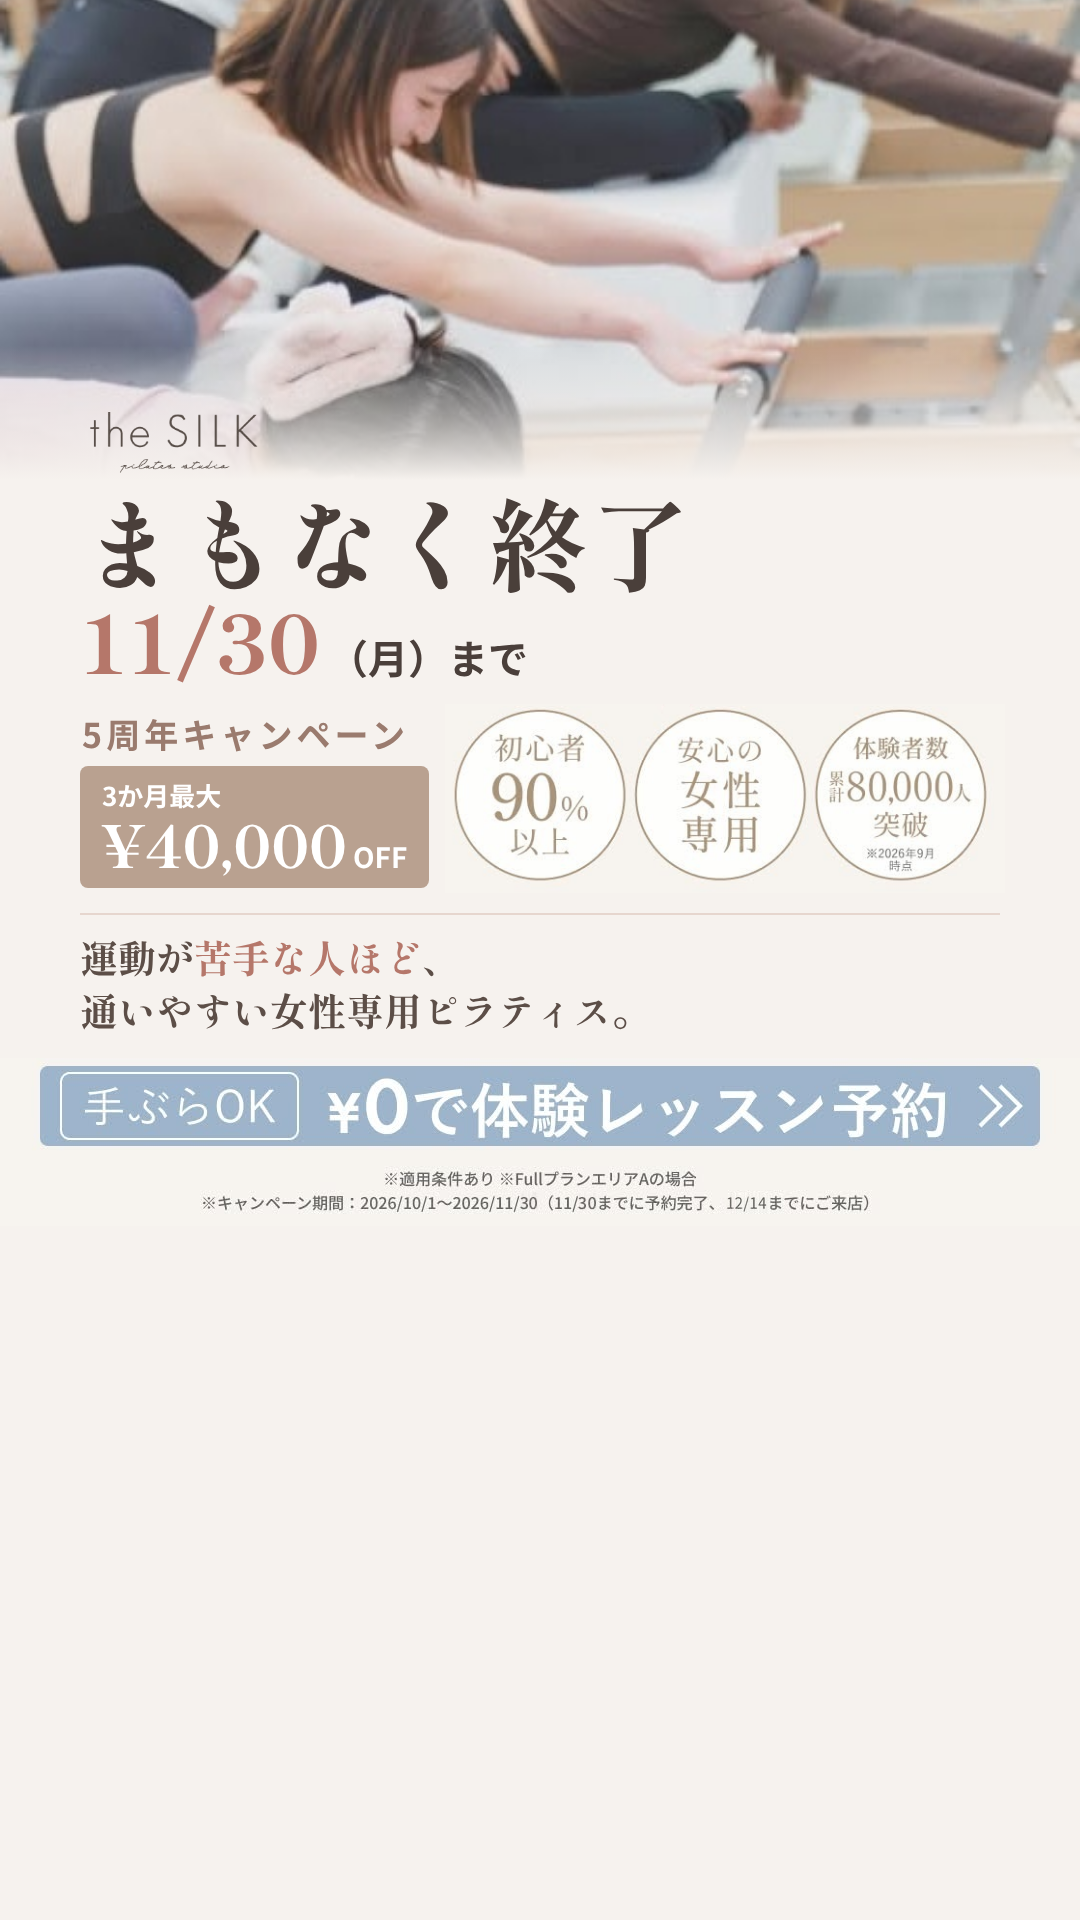
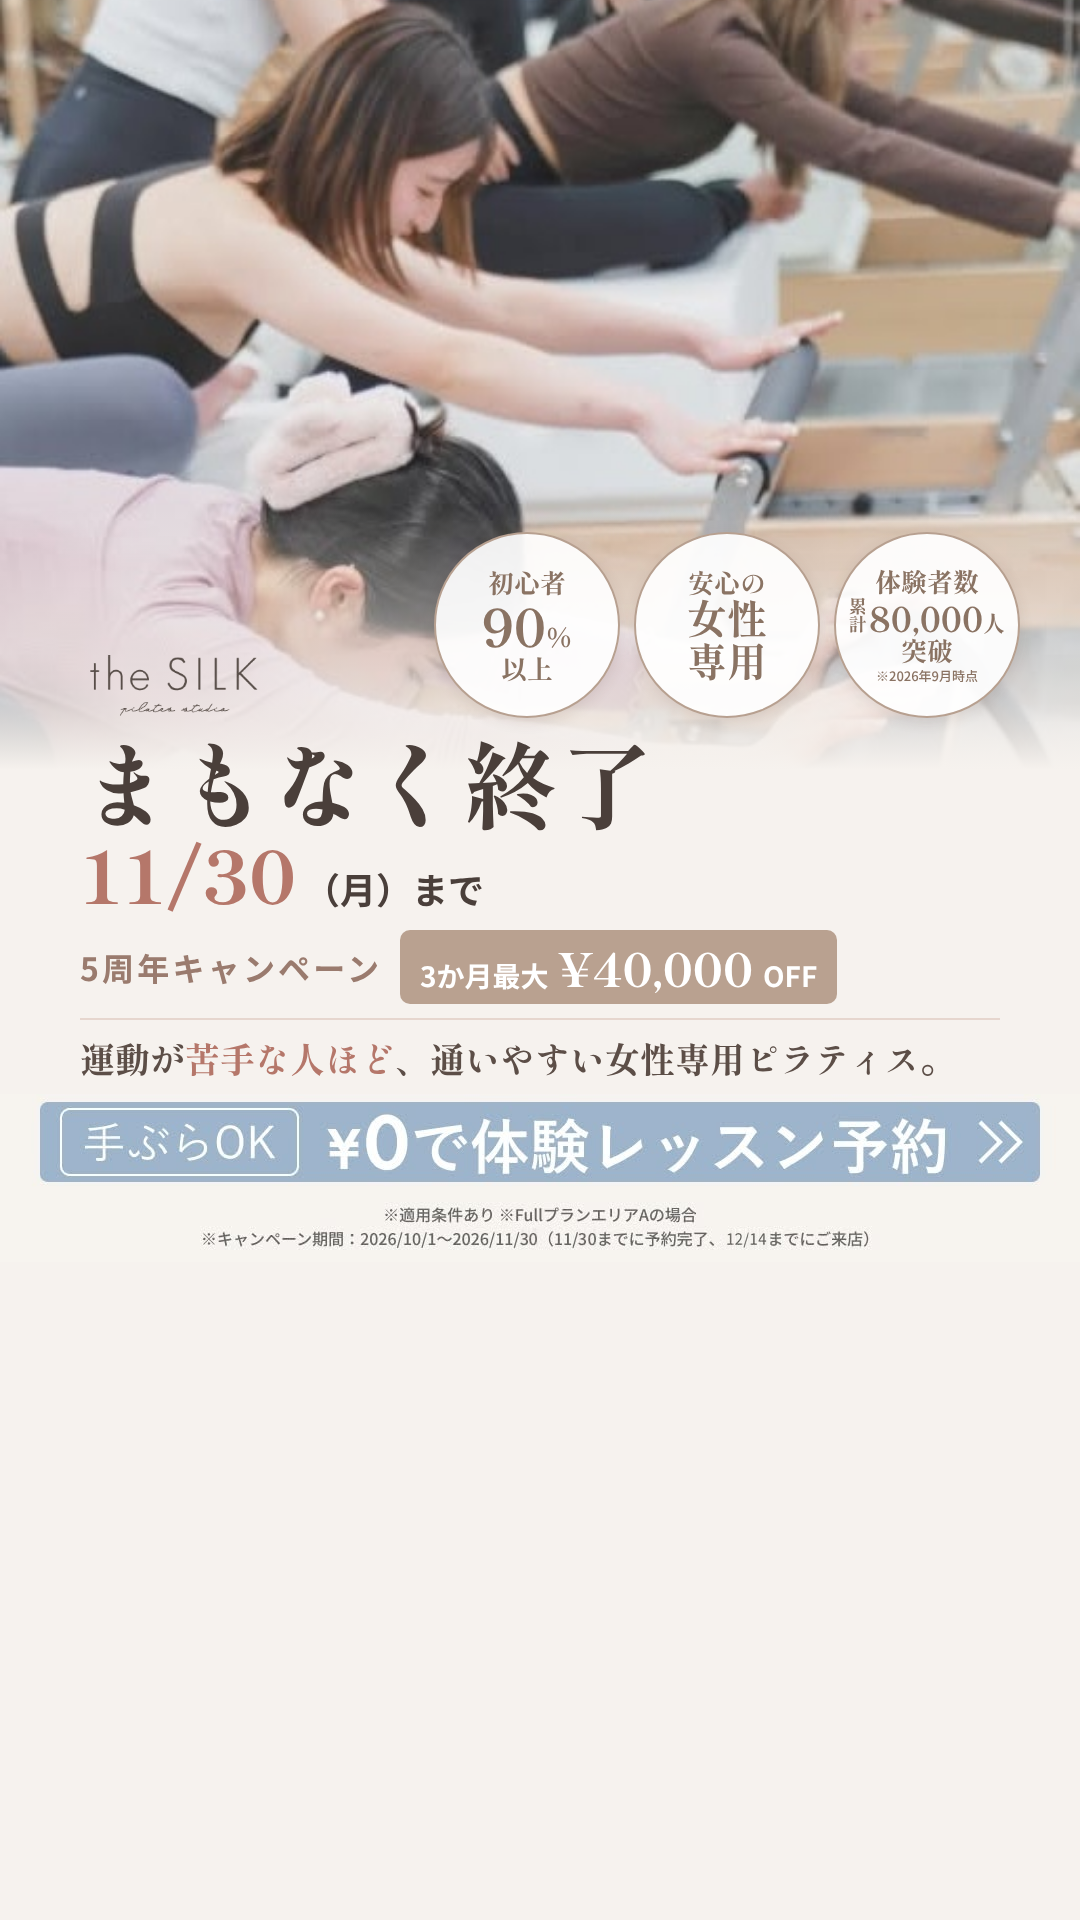
SILK 別デザイン案(まもなく終了) 9:16: 写真を高く、バッジを写真に重ね、5周年と割引を横並びに
Claude-Session: https://claude.ai/code/session_018a2Y1cQo96aQ6MP8FDrBaU

diff --git a/silk_banner_1130/src_別デザイン/dl_st.html b/silk_banner_1130/src_別デザイン/dl_st.html
@@ -3,33 +3,38 @@
 <style>
 *{margin:0;padding:0;box-sizing:border-box}
 body{width:1080px;height:1920px;overflow:hidden;background:#F6F2EE;font-family:'Noto Sans JP',sans-serif;color:#4A3F3A;position:relative}
-.ph{position:absolute;left:0;top:0;width:1080px;height:480px;background:url(class2.jpg) 50% 26%/cover}
-.ph:after{content:"";position:absolute;inset:0;background:linear-gradient(180deg,rgba(246,242,238,0) 72%,#F6F2EE 100%)}
-.cap{position:absolute;left:40px;top:250px;background:rgba(255,255,255,.88);border-radius:999px;padding:8px 20px;font-size:22px;font-weight:700;color:#8C6E62;letter-spacing:.06em}
-.r{position:absolute;left:80px;top:405px;width:920px}
-.logo{width:200px;display:block;margin-bottom:14px}
-.lead{margin-top:20px;font-size:36px;font-weight:700;color:#A2867A;letter-spacing:.12em;display:flex;align-items:center;gap:14px;white-space:nowrap}
-.lead:after{content:"";flex:1;height:2px;background:linear-gradient(90deg,#C7A497,rgba(199,164,151,0))}
-.big{font-family:'Shippori Mincho',serif;font-weight:800;font-size:100px;line-height:1.05;margin-top:8px;letter-spacing:.02em;color:#4A3F3A}
+.ph{position:absolute;left:0;top:0;width:1080px;height:770px;background:url(class2.jpg) 50% 24%/cover}
+.ph:after{content:"";position:absolute;inset:0;background:linear-gradient(180deg,rgba(246,242,238,0) 66%,#F6F2EE 100%)}
+.logo{position:absolute;left:80px;top:648px;width:200px}
+.bdgs{position:absolute;right:60px;top:532px;display:flex;gap:14px}
+.b{width:186px;height:186px;border-radius:50%;background:rgba(255,255,255,.92);border:2px solid #B7A090;display:flex;flex-direction:column;align-items:center;justify-content:center;font-family:'Shippori Mincho',serif;font-weight:700;color:#8A7363;line-height:1.1;box-shadow:0 4px 14px rgba(90,60,50,.12)}
+.b .s{font-size:26px}.b .l{font-size:52px}.b .l small{font-size:26px}.b .m{font-size:40px;line-height:1.08}
+.b .n{font-size:34px}.b .n small{font-size:18px;writing-mode:vertical-rl;margin-right:2px}.b .f{font-size:13px;font-family:'Noto Sans JP';font-weight:500;margin-top:4px}
+.r{position:absolute;left:80px;top:732px;width:920px}
+.big{font-family:'Shippori Mincho',serif;font-weight:800;font-size:94px;line-height:1.05;letter-spacing:.02em}
 .date{margin-top:6px;display:flex;align-items:baseline;gap:8px;font-family:'Shippori Mincho',serif;color:#B5776A}
-.date b{font-size:80px;font-weight:800;line-height:1}
-.date span{font-family:'Noto Sans JP';font-size:40px;font-weight:700;color:#4A3F3A}
-.copy{margin-top:20px;padding-top:16px;border-top:2px solid #E6D6CE;font-family:'Shippori Mincho',serif;font-weight:700;font-size:38px;line-height:1.38;color:#5C4E47;white-space:nowrap}
+.date b{font-size:72px;font-weight:800;line-height:1}
+.date span{font-family:'Noto Sans JP';font-size:36px;font-weight:700;color:#4A3F3A}
+.cp{margin-top:16px;display:flex;align-items:center;gap:18px}
+.rb{color:#9A7B6E;font-weight:700;font-size:32px;letter-spacing:.1em;white-space:nowrap}
+.tag{display:inline-flex;align-items:baseline;gap:10px;background:#B9A190;border-radius:10px;padding:4px 20px;font-size:28px;font-weight:700;color:#fff;white-space:nowrap}
+.tag b{font-family:'Shippori Mincho',serif;font-size:46px}
+.copy{margin-top:14px;padding-top:12px;border-top:2px solid #E6D6CE;font-family:'Shippori Mincho',serif;font-weight:700;font-size:35px;color:#5C4E47;white-space:nowrap}
 .copy em{font-style:normal;color:#B5776A}
-.tag{margin-top:24px;display:inline-flex;align-items:baseline;gap:12px;background:#B9A190;border-radius:10px;padding:10px 24px;font-size:30px;font-weight:700;color:#fff}
-.tag b{font-family:'Shippori Mincho',serif;font-size:52px}
-.bdg{display:block;width:600px;margin-top:26px}
-.cp{margin-top:30px;display:inline-flex;flex-direction:column;align-items:flex-start}.cp .tag{margin-top:0;border-radius:8px;white-space:nowrap;font-size:28px;padding:10px 22px 12px;display:flex;flex-direction:column;align-items:flex-start;gap:0}.cp .tag b{font-size:58px;line-height:1.05;margin-right:6px}.cp .t1{font-size:26px}.cp .t2{display:flex;align-items:baseline}.rb{color:#9A7B6E;font-weight:700;font-size:34px;letter-spacing:.12em;padding:0 0 8px 2px}
-.mid{display:flex;align-items:center;justify-content:space-between;margin-top:18px;gap:16px}.mid .cp{margin-top:0}.mid .bdg{width:560px;margin-top:0}
-.band{position:absolute;left:0;top:1058px;width:1080px}
+.band{position:absolute;left:0;top:1094px;width:1080px}
 </style></head><body>
 <div class="ph"></div>
+<img class="logo" src="logo.png" alt="the SILK">
+<div class="bdgs">
+ <div class="b"><span class="s">初心者</span><span class="l">90<small>%</small></span><span class="s">以上</span></div>
+ <div class="b"><span class="s">安心の</span><span class="m">女性<br>専用</span></div>
+ <div class="b"><span class="s">体験者数</span><span class="n"><small>累計</small>80,000<small style="writing-mode:horizontal-tb;font-size:22px">人</small></span><span class="s">突破</span><span class="f">※2026年9月時点</span></div>
+</div>
 <div class="r">
- <img class="logo" src="logo.png" alt="the SILK">
  <div class="big">まもなく終了</div>
  <div class="date"><b>11/30</b><span>（月）まで</span></div>
- <div class="mid"><div class="cp"><div class="rb">5周年キャンペーン</div><div class="tag"><span class="t1">3か月最大</span><span class="t2"><b>¥40,000</b>OFF</span></div></div><img class="bdg" src="badges.png" alt=""></div>
- <div class="copy">運動が<em>苦手な人ほど</em>、<br>通いやすい女性専用ピラティス。</div>
+ <div class="cp"><div class="rb">5周年キャンペーン</div><div class="tag">3か月最大<b>¥40,000</b>OFF</div></div>
+ <div class="copy">運動が<em>苦手な人ほど</em>、通いやすい女性専用ピラティス。</div>
 </div>
 <img class="band" src="band.png" alt="">
 </body></html>
